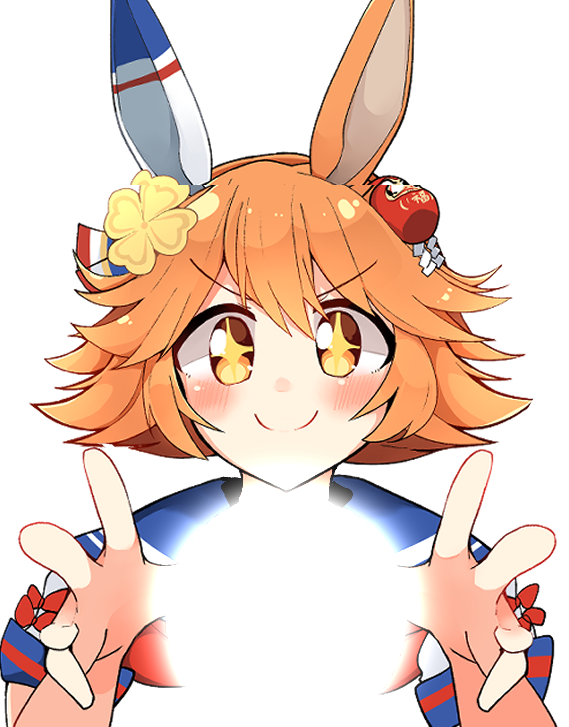
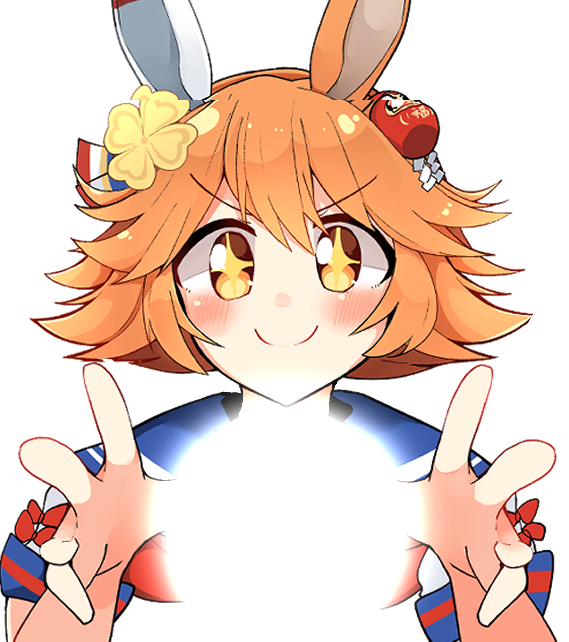
微調整

diff --git a/index.css b/index.css
@@ -42,7 +42,7 @@ a {
     position: absolute;
     margin: auto;
     right: 0;
-    bottom: 24%;
+    bottom: 25%;
     left: 0;
 }
 
